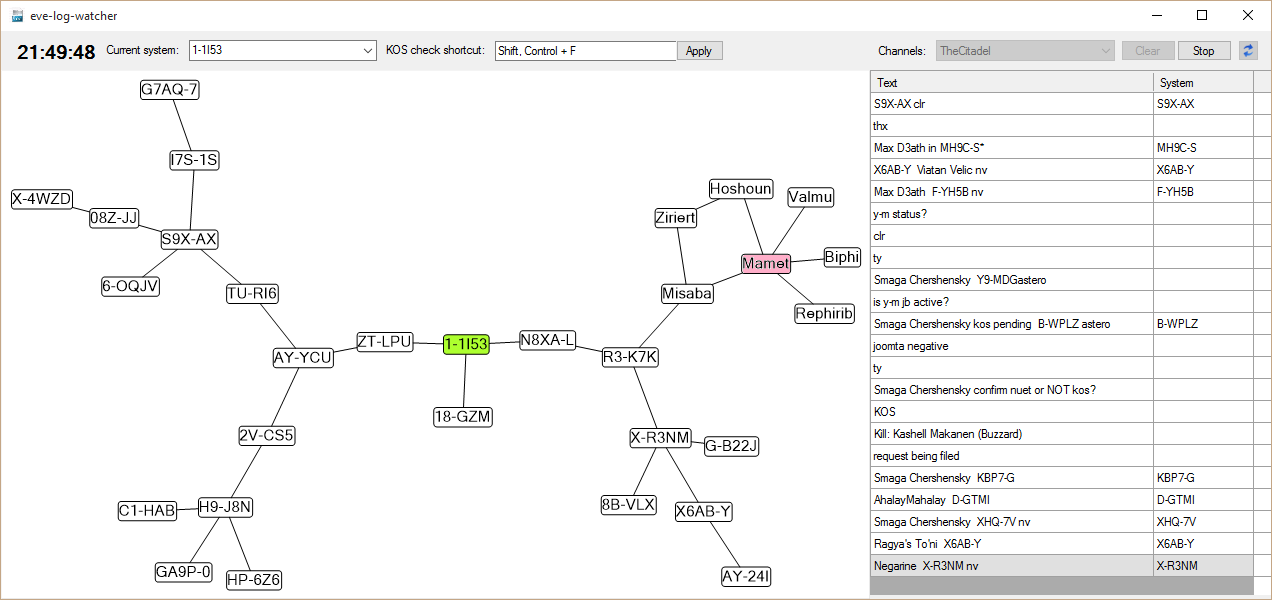
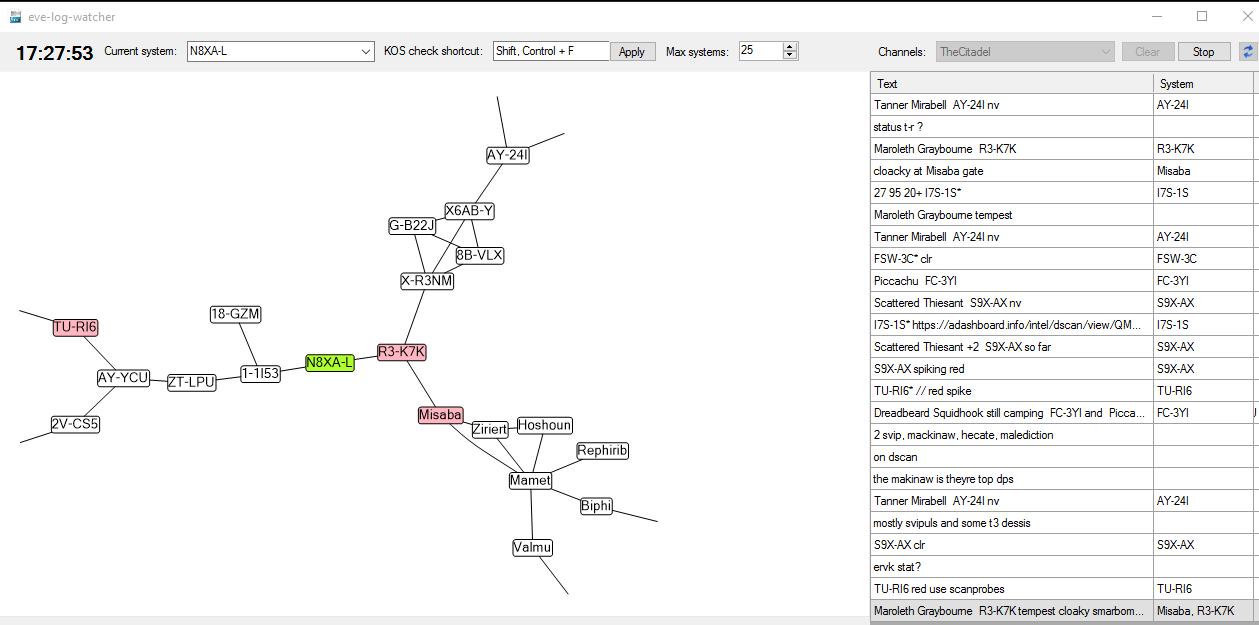
screenhot update

diff --git a/README.md b/README.md
@@ -11,5 +11,5 @@ http://kos.cva-eve.org/ integrated check:
 - all kos request are cached in memory until app is closed
 - change shortcut: click into box on main form, press desired shortcut and then click apply button.
 	
-Screenhot: (in less than 10 seconds ago there was intel about 'Mamet' solar system)
+Screenhot: (pink systems shows, that there was some intel in less than 10 seconds ago)
 ![Screenhot](https://raw.githubusercontent.com/CzBuCHi/eve-log-watcher/master/screenhot.png)
